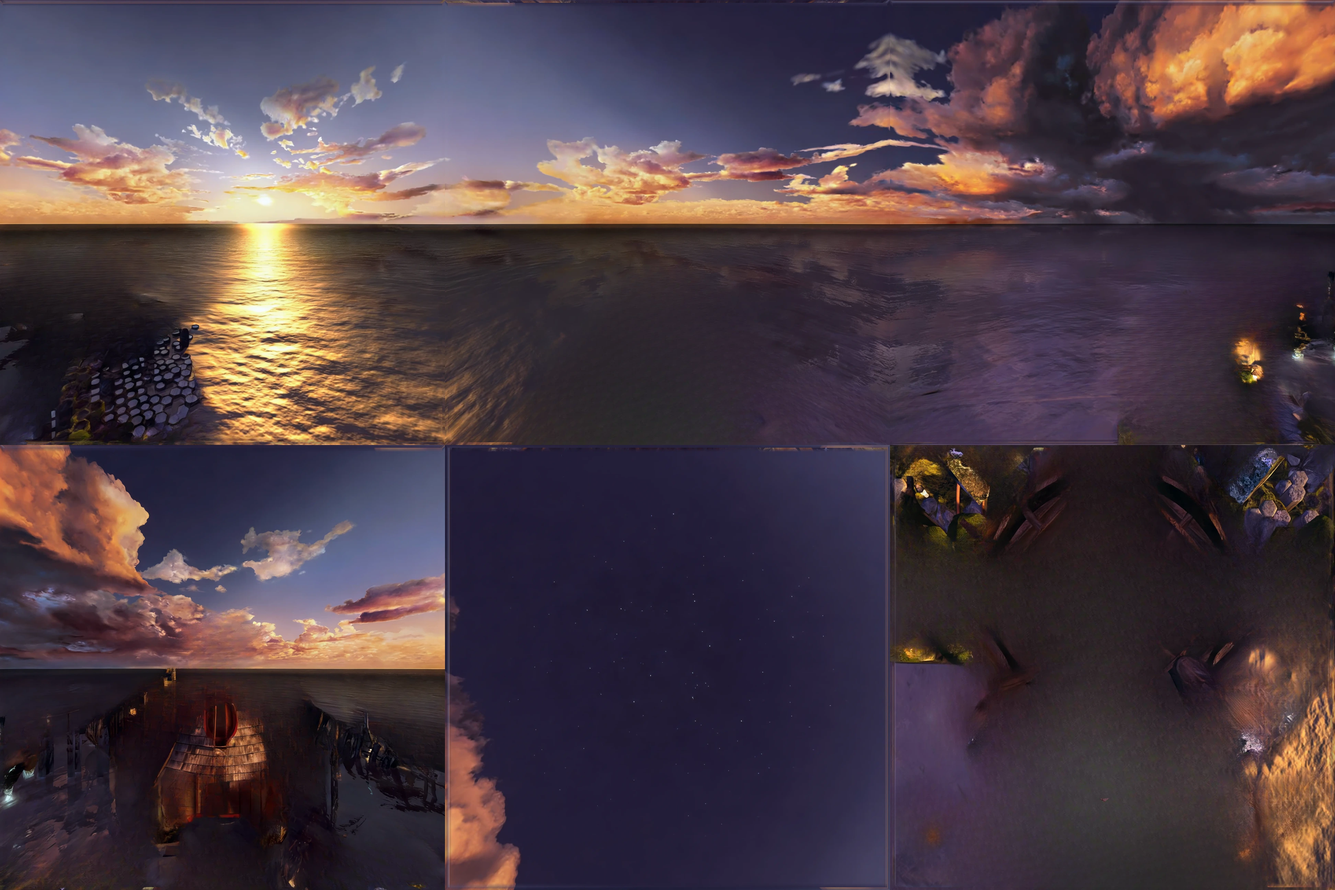
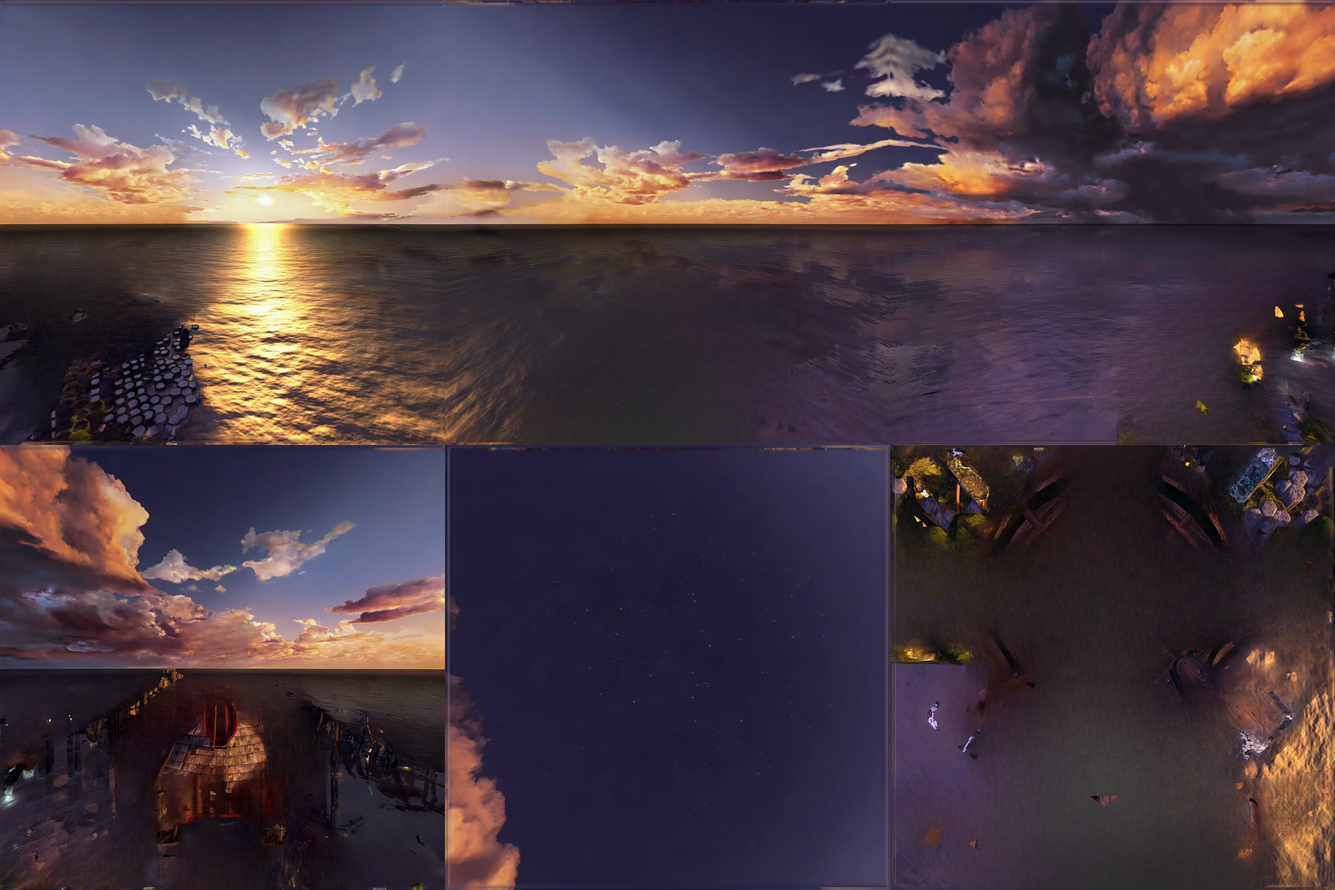
The speckle along rails and walkway edges in the Layered versions is gone. The cuts were dotted lines where a softer step escaped the jump test; holes are now found with hysteresis and cleared of specks. LaMa repaints 12 px past each edge so it never copies the colour fringe, but the backdrop keeps 
Claude-Session: https://claude.ai/code/session_01PGTZsQJKeQ77ippduWGzGV

diff --git a/cube/amateria/layers/build_layers.py b/cube/amateria/layers/build_layers.py
@@ -139,7 +139,14 @@ def jumps(q, t):
     return near & ~far, far & ~near
 
 
-def hole_band(q, whole, t, width, step_at):
+def remove_specks(m, area):
+    """m without its connected pieces of under area pixels."""
+    n, comp, stats, _ = cv2.connectedComponentsWithStats(m.astype(np.uint8), connectivity=8)
+    big = stats[:, cv2.CC_STAT_AREA] >= area; big[0] = False
+    return big[comp]
+
+
+def hole_band(q, whole, t, width, step_at, speck=80):
     """Voltaic's way of cutting, for every step: the width px on its far side
     become a hole in the foreground (green 0), and the near depth carries on
     under the hole for step_at px, so the mesh's step lies inside it. The mesh
@@ -147,18 +154,32 @@ def hole_band(q, whole, t, width, step_at):
     ramp of stretched triangles about 5 px wide; cut by the tear test, which
     reaches about a pixel from the step, the rest of that ramp showed as
     jagged teeth along every edge. A hole is cut by the picture's own pixels."""
-    near_e, _ = jumps(q, t)
+    # Hysteresis, as in edge finding: a step of half the size counts where it
+    # joins a full one, and gaps of a pixel or two along an edge are closed.
+    # Without it, where a step was a little softer the hole stopped, the cut
+    # along an edge was a dotted line, and pixels of the near object's edge
+    # stayed behind between the dots: a speckle along every rail and walkway.
+    strong, _ = jumps(q, t)
     hole = np.zeros(q.shape, bool)
-    if not near_e.any():
+    if not strong.any():
         return q.copy(), hole
+    weak, _ = jumps(q, t / 2)
+    weak = cv2.morphologyEx((weak | strong).astype(np.uint8), cv2.MORPH_CLOSE, np.ones((3, 3), np.uint8)) > 0
+    _, wc = cv2.connectedComponents(weak.astype(np.uint8), connectivity=8)
+    keep = np.unique(wc[strong]); keep = keep[keep > 0]
+    near_e = np.isin(wc, keep) & ~whole | strong
     qmax = cv2.dilate(q.astype(np.float32), np.ones((5, 5), np.uint8))
     dist, lab = cv2.distanceTransformWithLabels((~near_e).astype(np.uint8), cv2.DIST_L2, 5,
                                                 labelType=cv2.DIST_LABEL_PIXEL)
     ys, xs = np.nonzero(near_e)
     nq_of = np.zeros(lab.max() + 1, np.float32); nq_of[lab[ys, xs]] = qmax[ys, xs]
     nq = nq_of[lab]
-    far_side = ~whole & ~near_e & (nq > q + t / 2)
+    far_side = ~whole & ~near_e & (nq > q + t / 4)
     hole = far_side & (dist <= width)
+    # No specks: holes of under speck pixels go, and so do islands of
+    # foreground that small inside a hole.
+    hole = remove_specks(hole, speck)
+    hole = ~remove_specks(~hole, speck)
     out = q.copy()
     under = far_side & (dist <= step_at)
     out[under] = nq[under]
@@ -251,7 +272,8 @@ def main():
     ap = argparse.ArgumentParser(description=__doc__, formatter_class=argparse.RawDescriptionHelpFormatter)
     ap.add_argument('out'); ap.add_argument('--lama', default='big-lama.pt')
     ap.add_argument('--band', type=int, default=160); ap.add_argument('--jump', type=float, default=0.8)
-    ap.add_argument('--fringe', type=int, default=6, help='px the painted region reaches past the jump into the far side')
+    ap.add_argument('--hide-fringe', type=int, default=6, help='px past the edge LaMa repaints, not copying the fringe')
+    ap.add_argument('--fringe', type=int, default=2, help='px the painted region reaches past the jump into the far side')
     ap.add_argument('--reach', type=int, default=48, help='px within which the farthest far side counts as behind '
                     '(0: the nearest step\'s far side; MAWW 101 is built so)')
     ap.add_argument('--model-bg', help="model_backdrop.py's folder: what other nodes saw behind the near objects")
@@ -299,8 +321,21 @@ def main():
         region, whole, fq = removed_region(sample(Q, look), a.jump, sc(a.band),
                                              0 if k in a.nearest_faces else sc(a.reach), a.belong)
         grow = lambda m: cv2.dilate(m.astype(np.uint8), np.ones((2 * sc(a.fringe) + 1,) * 2, np.uint8)) > 0
-        masks[k], hide[k], fqs[k], wholes[k] = grow(region), grow(whole), fq, whole
-        fgq[k], holes[k] = hole_band(sample(Q, look), whole, a.jump, sc(a.hole), sc(a.hole_step))
+        # Gaps narrower than the cut between parts of a near object (the slit
+        # between ENSI 16's spire blades): what shows through them is paler or
+        # mixed with the object's edges, and left in the backdrop at the far
+        # side's depth it stayed behind as a pale ghost of the slit.
+        k_gap = cv2.getStructuringElement(cv2.MORPH_ELLIPSE, (2 * sc(a.hole) + 1,) * 2)
+        slits = (cv2.morphologyEx(whole.astype(np.uint8), cv2.MORPH_CLOSE, k_gap) > 0) & ~whole
+        # LaMa repaints --hide-fringe px past the edge, so it never copies the
+        # object's colour fringe (a 4 px margin let the spire's rust into the
+        # sky as a pink smudge); the backdrop keeps only --fringe px of that,
+        # and the real far side beyond (a 12 px strip of painted water was
+        # darker than the water beside it, a jagged line along every edge).
+        hgrow = lambda m: cv2.dilate(m.astype(np.uint8), np.ones((2 * sc(a.hide_fringe) + 1,) * 2, np.uint8)) > 0
+        masks[k], hide[k], fqs[k], wholes[k] = grow(region) | slits, hgrow(whole) | slits, fq, whole
+        fgq[k], holes[k] = hole_band(sample(Q, look), whole, a.jump, sc(a.hole), sc(a.hole_step),
+                                           speck=int(20 * S * S))
     inner = (slice(PAD_, PAD_ + N), slice(PAD_, PAD_ + N))
     M = np.stack([masks[k][inner] for k in range(1, 7)])
     for k in ORDER:

diff --git a/cube/README.md b/cube/README.md
@@ -390,7 +390,21 @@ dense, `build_layers.py --model-bg` puts that colour and depth in the backdrop
 and LaMa paints only the rest; scattered points it leaves to LaMa, since given
 as known they were clues LaMa joined up into a ghost of the object. The
 neighbours supply 2–9% of MASS 84's side faces and 4–16% of ENSI 16's: sea
-behind the stone tower, cliff and sea behind the walkways. Moving the measured
+behind the stone tower, cliff and sea behind the walkways.
+
+Speckle along thin things (rails, walkway edges) came from cuts that broke
+into dotted lines: where a step was a little softer the 2-pixel jump test
+missed it, the hole stopped, and pixels of the near object's edge stayed
+behind between the dots. The holes are now found with hysteresis (a step of
+half the size counts where it joins a full one, one-pixel gaps closed), and
+hole specks and foreground islands under 20 px (80 at 1280) are removed.
+LaMa repaints 6 px past every edge (`--hide-fringe`, 12 at 1280) so it never
+copies the object's colour fringe, but the backdrop keeps only 2 px of that
+painting (`--fringe`), and the real far side beyond: a 12 px strip of painted
+water was darker than the water beside it and showed as a jagged line along
+the walkway. Gaps narrower than the cut between parts of a near object (the
+slit between ENSI 16's spire blades) are painted whole; left at the far
+side's depth they stayed behind as pale ghosts. Moving the measured
 depth's edges onto the picture's by colour was tried first (pixels within
 14–18 px of a jump relabelled near or far) and dropped: in these dark faces
 the labels came out speckled, each speckle tore, and the rings and arcs broke
